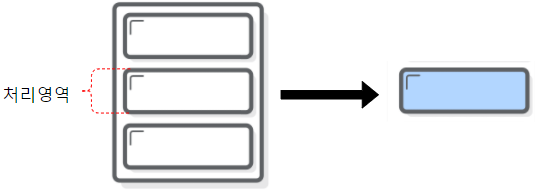
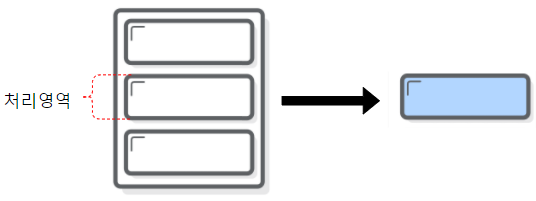
1
1

Changed region(s): [[0.0, 0.0, 1.0, 0.9637]]

diff --git a/guide/prditem.rst b/guide/prditem.rst
@@ -84,7 +84,7 @@ https://m2-kr-next.readthedocs.io/ko/latest/guide/prditem.html#engine-prditem-mi
 상품기술서는 완전한 형태의 ``<HTML>`` 로 존재하는 경우가 많다.
 의사가 수술부위를 명확히 지정하는 것처럼 URL로 상품기술서 처리영역을 설정할 수 있다.
 
-.. figure:: img/prditem08.png
+.. figure:: img/prditem18.png
    :align: center
 
 위 그림과 같이 파란영역이 수정범위인 경우를 예로 들어 설명한다.
